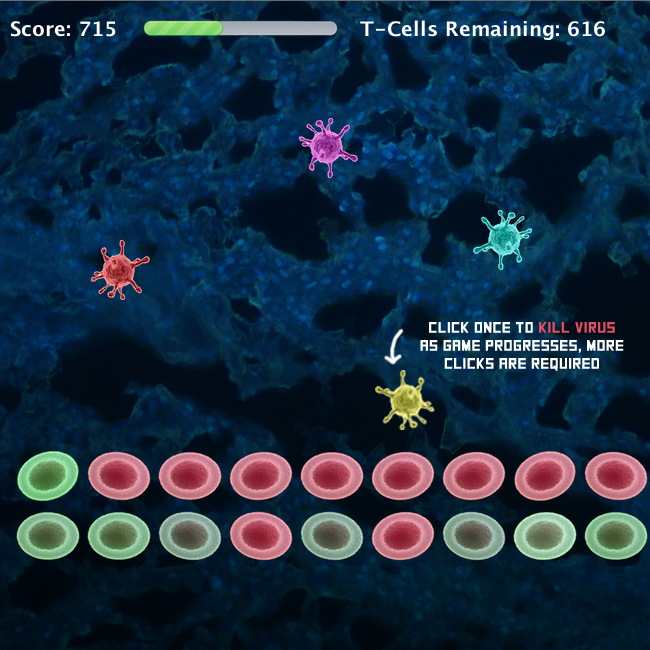
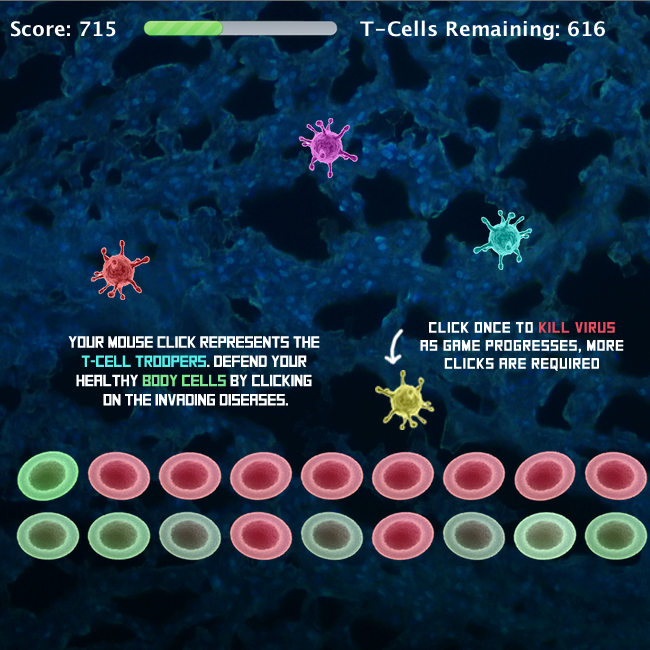
moved test files and added instruction2 image

Changed region(s): [[0.0923, 0.4923, 0.4923, 0.6462]]

diff --git a/AP Project 4/src/impl/game.html b/AP Project 4/src/impl/game.html
@@ -1,0 +1,7 @@
+<html>
+<applet code="impl.InvasionGame"
+        archive="project4.jar" width="850" height="650">
+        Gaming for Social Good
+        T-Cell Troopers: AIDS Defense
+</applet>
+</html>

diff --git a/AP Project 4/src/object/DisplayPanel.java b/AP Project 4/src/object/DisplayPanel.java
@@ -89,7 +89,6 @@ public class DisplayPanel extends JPanel {
 			//Create action performed event that changes screen to one ahead
 			@Override
 			public void actionPerformed(ActionEvent event) {
-				System.out.println(GAME_SCREENS[panelType] + " " + panelType);
 				if(panelType == 7)
 					InvasionGame.changeDisplayPanel(GAME_SCREENS[panelType + 2]);
 				//if you have reached the end of the game and need to restart

diff --git a/AP Project 4/src/test/BoardTest.java b/AP Project 4/src/test/BoardTest.java
@@ -1,6 +1,7 @@
-package object;
+package test;
 
 import static org.junit.Assert.*;
+import object.Board;
 
 import org.junit.Test;
 

diff --git a/AP Project 4/src/test/VirusTest.java b/AP Project 4/src/test/VirusTest.java
@@ -1,6 +1,7 @@
-package object;
+package test;
 
 import static org.junit.Assert.*;
+import object.Virus;
 
 import org.junit.Test;
 

diff --git a/AP Project 4/src/test/CellTest.java b/AP Project 4/src/test/CellTest.java
@@ -1,6 +1,7 @@
-package object;
+package test;
 
 import static org.junit.Assert.*;
+import object.Cell;
 
 import org.junit.Test;
 
